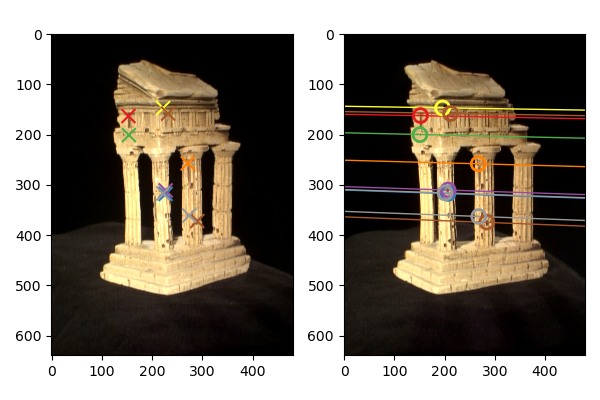
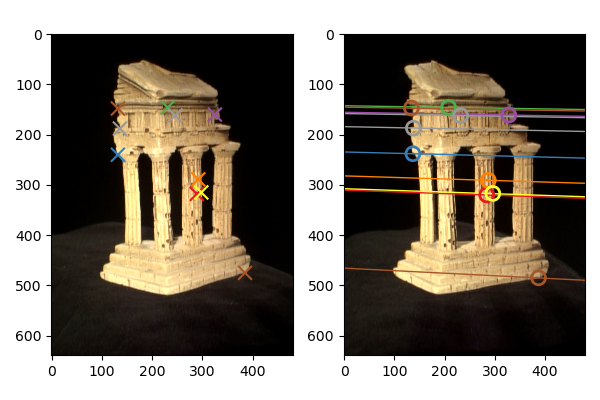
add: task 2b,c

diff --git a/Assignments/ex6/python/eight_point.py b/Assignments/ex6/python/eight_point.py
@@ -38,24 +38,24 @@ def eight_point(uv1, uv2):
 
     U, S, VT = np.linalg.svd(A)
     F_hat = np.reshape(VT.T[:, -1], (3, 3))
-
-    """
+    
     # (b) Constraint enforcement:
-    U, S, VT = np.linalg.svd(F_hat)
-    S = np.diag(S)
-    S[-1, -1] = 0
-    F_hat_marked = U@S@VT
-    """
+    F_hat = closest_fundamental_matrix(F_hat)
     
     # Denomalization
     F = T2.T@F_hat@T1
     return F
+
 
 def closest_fundamental_matrix(F):
     """
     Computes the closest fundamental matrix in the sense of the
     Frobenius norm. See HZ, Ch. 11.1.1 (p.280).
     """
-
-    # todo: Compute the correct F
+    # HZ Ch. 11.1.1 (p.280) 
+    U, S, VT = np.linalg.svd(F)
+    S = np.diag(S)
+    S[-1, -1] = 0
+    
+    F = U@S@VT
     return F
